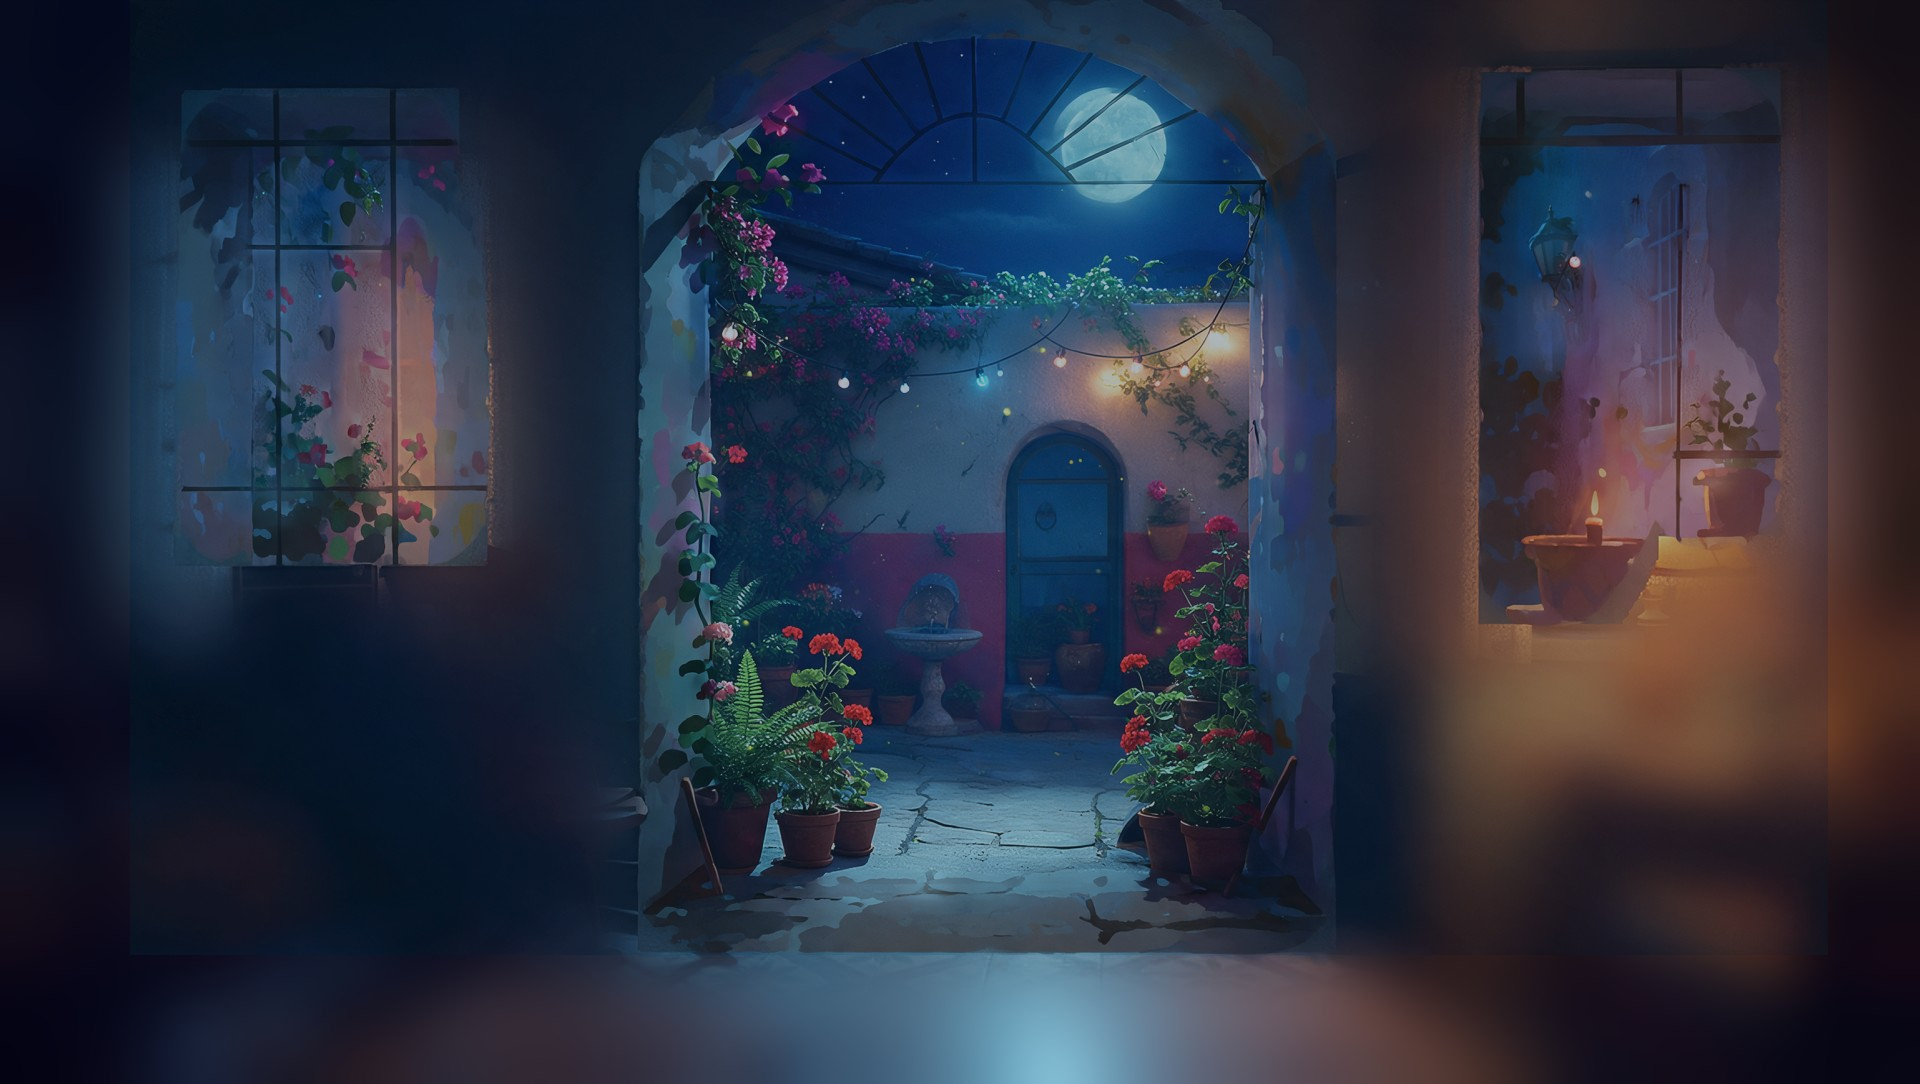
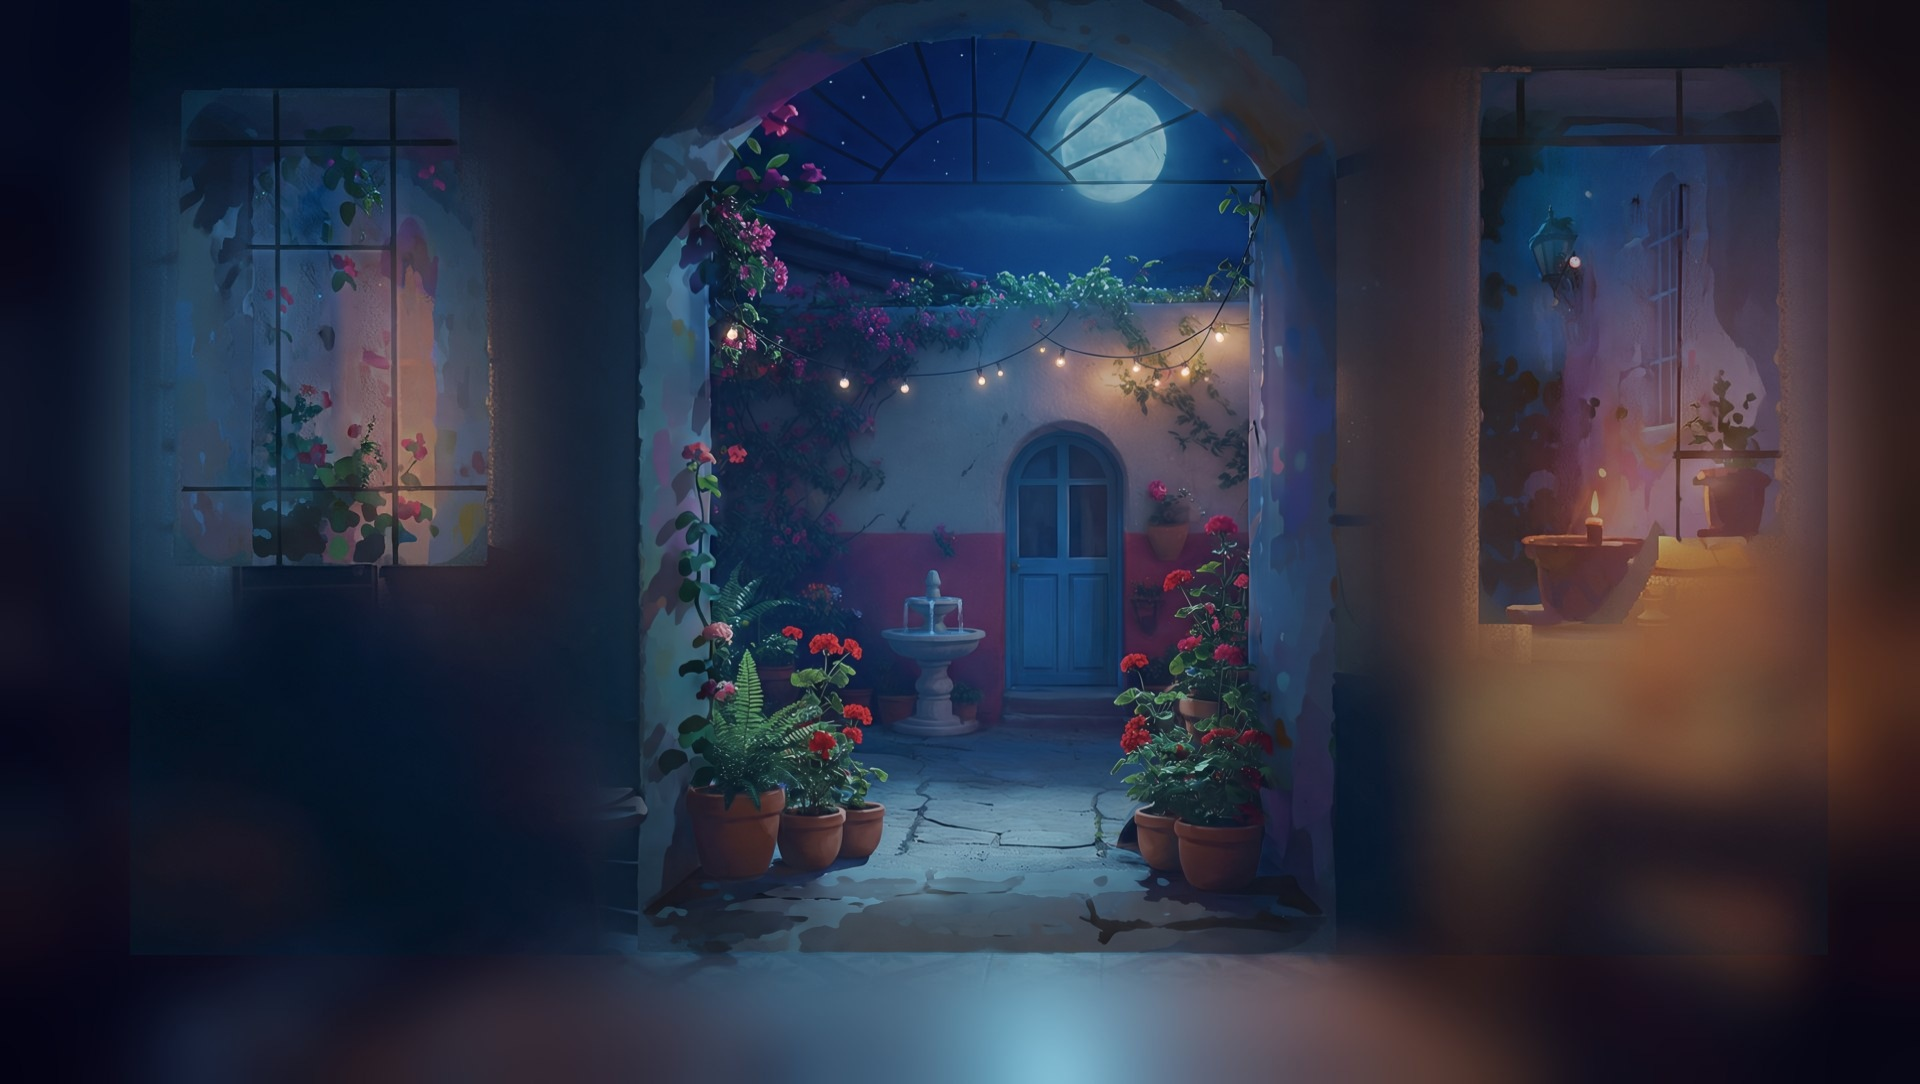
Latam: cleaned patio (fountain, door, pots, string lights) via Nano Banana Pro
Claude-Session: https://claude.ai/code/session_01WmePPEVtycNtDwciTC66yT

diff --git a/public/index.html b/public/index.html
@@ -455,7 +455,7 @@ function setVid(key){const V=VIDS[key];if(vidKey===key&&vidEl)return;if(vidEl){v
   const t=new THREE.VideoTexture(v);t.minFilter=THREE.LinearFilter;t.magFilter=THREE.LinearFilter;t.generateMipmaps=false;
   const b=V.box;U.uVidBox.value.set(b[0]/1920,1-b[3]/1084,b[2]/1920,1-b[1]/1084);U.tVid.value=t;vidEl=v;vidTex=t;window.__tnVid=v;
   v.addEventListener('playing',()=>{if(vidEl===v)U.uVidOn.value=1},{once:true});const go=()=>v.play().catch(()=>{});go();addEventListener('pointerdown',go,{once:true})}
-function texFor(key){if(!cache.has(key))cache.set(key,Promise.all(FILES.map(n=>loadTex(((LAB&&LAB[key])||key)+'/'+n+(/^(out_|mask|plate_|maps|cup_|shadow)/.test(n)?'?v=53':'')))).then(a=>Object.fromEntries(FILES.map((n,i)=>[n.split('.')[0],a[i]]))));return cache.get(key)}
+function texFor(key){if(!cache.has(key))cache.set(key,Promise.all(FILES.map(n=>loadTex(((LAB&&LAB[key])||key)+'/'+n+(/^(out_|mask|plate_|maps|cup_|shadow)/.test(n)?'?v=54':'')))).then(a=>Object.fromEntries(FILES.map((n,i)=>[n.split('.')[0],a[i]]))));return cache.get(key)}
 function evict(keep){for(const [k,p] of cache)if(!keep.includes(k)){cache.delete(k);p.then(T=>Object.values(T).forEach(t=>t.dispose()))}}
 const tvCan=document.createElement('canvas');tvCan.width=128;tvCan.height=96;const tvCtx=tvCan.getContext('2d');
 const tTV=new THREE.CanvasTexture(tvCan);tTV.minFilter=THREE.LinearFilter;tTV.generateMipmaps=false;

diff --git a/public/lab.html b/public/lab.html
@@ -456,7 +456,7 @@ function setVid(key){const V=VIDS[key];if(vidKey===key&&vidEl)return;if(vidEl){v
   const t=new THREE.VideoTexture(v);t.minFilter=THREE.LinearFilter;t.magFilter=THREE.LinearFilter;t.generateMipmaps=false;
   const b=V.box;U.uVidBox.value.set(b[0]/1920,1-b[3]/1084,b[2]/1920,1-b[1]/1084);U.tVid.value=t;vidEl=v;vidTex=t;window.__tnVid=v;
   v.addEventListener('playing',()=>{if(vidEl===v)U.uVidOn.value=1},{once:true});const go=()=>v.play().catch(()=>{});go();addEventListener('pointerdown',go,{once:true})}
-function texFor(key){if(!cache.has(key))cache.set(key,Promise.all(FILES.map(n=>loadTex(((LAB&&LAB[key])||key)+'/'+n+(/^(out_|mask|plate_|maps|cup_|shadow)/.test(n)?'?v=53':'')))).then(a=>Object.fromEntries(FILES.map((n,i)=>[n.split('.')[0],a[i]]))));return cache.get(key)}
+function texFor(key){if(!cache.has(key))cache.set(key,Promise.all(FILES.map(n=>loadTex(((LAB&&LAB[key])||key)+'/'+n+(/^(out_|mask|plate_|maps|cup_|shadow)/.test(n)?'?v=54':'')))).then(a=>Object.fromEntries(FILES.map((n,i)=>[n.split('.')[0],a[i]]))));return cache.get(key)}
 function evict(keep){for(const [k,p] of cache)if(!keep.includes(k)){cache.delete(k);p.then(T=>Object.values(T).forEach(t=>t.dispose()))}}
 const tvCan=document.createElement('canvas');tvCan.width=128;tvCan.height=96;const tvCtx=tvCan.getContext('2d');
 const tTV=new THREE.CanvasTexture(tvCan);tTV.minFilter=THREE.LinearFilter;tTV.generateMipmaps=false;
